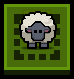
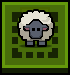
Disable zones when their job requirements are not met, and show hotkeys in the menu tooltip

diff --git a/source/stonehearth_data/mods/stonehearth/ui/game/start_menu/start_menu.js b/source/stonehearth_data/mods/stonehearth/ui/game/start_menu/start_menu.js
@@ -104,6 +104,7 @@ App.StonehearthStartMenuView = App.View.extend({
          .done(function(json) {
             self._buildMenu(json);
             self._addHotkeys();
+            self._tracePopulation();
 
             // hide menus that are in development
             radiant.call('radiant:get_config', 'show_in_progress_ui')
@@ -129,12 +130,6 @@ App.StonehearthStartMenuView = App.View.extend({
             }
          });
 
-      radiant.call('stonehearth:get_population')
-         .done(function(response){
-            // xxx: setting 'uri' causes the view to re-reinitialize itself!
-            //self.set('uri', response.population);
-         });
-
       /*
       $('#startMenu').on( 'mouseover', 'a', function() {
          radiant.call('radiant:play_sound', {'track' : 'stonehearth:sounds:ui:action_hover'});
@@ -147,35 +142,20 @@ App.StonehearthStartMenuView = App.View.extend({
 
    },
 
-   _onCitizensChanged: function() {
-      var citizenMap = this.get('context.citizens');
-      var vals = radiant.map_to_array(citizenMap);
-      this.set('context.citizensArray', vals);
-    }.observes('context.citizens.[]'),
-
-   _onCitizenjobChanged: function() {
-      var self = this;
-      var citizensArray = this.get('context.citizensArray');
-
-      self._foundjobs = {}
-      radiant.each(citizensArray, function(i, citizen) {
-         var job_uri = citizen['stonehearth:job']['job_uri'];
-         self._foundjobs[job_uri] = true;
-      });
-
-      self._updateMenuLocks();
-   }.observes('context.citizensArray.@each.stonehearth:job'),
-
-   _updateMenuLocks: function() {
-      var self = this;
-
-      if (!self.$()) {
-         return;
+   destroy: function() {
+      if (this._popTrace) {
+         this._popTrace.destroy();
       }
+   },
 
-      $.each(this._foundjobs, function(job, _) {
-         $( ".selector" ).progressbar({ disabled: true });
-         self.$('#startMenu').stonehearthMenu('unlock', job);
+   _trackJobs: function(citizens) {
+      // find all the jobs in the population
+      radiant.each(citizens, function(_, citizen) {
+         var job = citizen['stonehearth:job'];
+         if (job) {
+            // unlock this job in the menu
+            self.$('#startMenu').stonehearthMenu('unlock', job.job_uri.alias);
+         }
       });
    },
 
@@ -188,6 +168,27 @@ App.StonehearthStartMenuView = App.View.extend({
          }
       });
 
+   },
+
+   // create a trace to enable and disable menu items based on the jobs
+   // in the population
+   _tracePopulation: function() {
+      var self = this;
+
+      var components = {
+         "citizens" : {
+            "*" : {
+               "stonehearth:job" : {
+                  "job_uri" : {}
+               }
+            }
+         }
+      };
+
+      self._popTrace = new RadiantTrace(App.population.getUri(), components, { bubbleNotificationsUp: true })
+         .progress(function(pop) {
+            self._trackJobs(pop.citizens);
+         })
    },
 
    _onMenuClick: function(menuId, nodeData) {

diff --git a/source/stonehearth_data/mods/stonehearth/ui/game/start_menu/stonehearth_menu.js b/source/stonehearth_data/mods/stonehearth/ui/game/start_menu/stonehearth_menu.js
@@ -79,6 +79,11 @@ $.widget( "stonehearth.stonehearthMenu", {
       }
    },
 
+   unlock: function(jobAlias) {
+      var alias = jobAlias.split(":").join('\\:');
+      this.element.find('[job=' + alias + ']').removeClass('locked');
+   },
+
    _create: function() {
       var self = this;
 
@@ -104,6 +109,11 @@ $.widget( "stonehearth.stonehearthMenu", {
          var menuItem = $(this);
          var id = menuItem.attr('id');
          var nodeData = self._dataToMenuItemMap[id]
+
+         if (menuItem.hasClass('locked')) {
+            //XXX, play a "bonk" sound
+            return;
+         }
 
          if (nodeData.clickSound) {
             radiant.call('radiant:play_sound', {'track' : nodeData.clickSound});
@@ -196,6 +206,11 @@ $.widget( "stonehearth.stonehearthMenu", {
                      .append('<div class=hotkey>' + hotkey + '</div>')
                      .appendTo(el);
 
+         if (node.required_job) {
+            item.attr('job', node.required_job);
+            item.addClass('locked'); // initially lock all nodes that require a job. The user of the menu will unlock them
+         }
+
          self._buildTooltip(item);
 
          if (node.items) {
@@ -221,10 +236,19 @@ $.widget( "stonehearth.stonehearthMenu", {
       var description = node.description;
       var hotkey = node.hotkey;
 
+      if (node.required_job_text) {
+         description = description + '<p>' + '<span class=warn>' + node.required_job_text + '</span></p>';
+      };
+
+      var content = '<div class=title>' + name + '</div>' + 
+                    '<div class=description>' + description + '</div>';
+
+      if (node.hotkey) {
+         content = content + '<div class=hotkey>' + i18n.t('stonehearth:hotkey') + ' <span class=key>' + node.hotkey + '</span></div>';
+      }
+
       item.tooltipster({
-         content: $('<div class=title>' + name + '</div>' + 
-                    '<div class=description>' + description + '</div>' + 
-                    '<div class=hotkey>' + $.t('hotkey') + ' <span class=key>' + hotkey + '</span></div>')
+         content: $(content)
       });
    }
 

diff --git a/source/stonehearth_data/mods/stonehearth/ui/root/css/tooltipster.less b/source/stonehearth_data/mods/stonehearth/ui/root/css/tooltipster.less
@@ -22,19 +22,24 @@
 
 		.hotkey {
 			.controlFont;
-			display: none;
+			display: inline-block;
 			position: absolute;
-			color: rgba(255, 255, 255, 0.8);
+			color: rgba(255, 255, 255, 0.2);
 			top: 10px;
 			right: 10px;
 
 			.key {
 				color: #ff5a00;
+				font-weight: bold;
 			}
 		}
 
 		.description {
 			margin-top: 30px;
+		}
+
+		.warn {
+			color: #f00;
 		}
 	}
 

diff --git a/source/stonehearth_data/mods/stonehearth/ui/game/start_menu/stonehearth_menu.less b/source/stonehearth_data/mods/stonehearth/ui/game/start_menu/stonehearth_menu.less
@@ -48,6 +48,7 @@
 
 	.locked {
 	   -webkit-filter: ~"saturate(0%)";	
+	   opacity: 0.5;
 
 	   &:hover {
 	   	-webkit-filter: ~"saturate(0%)";	
